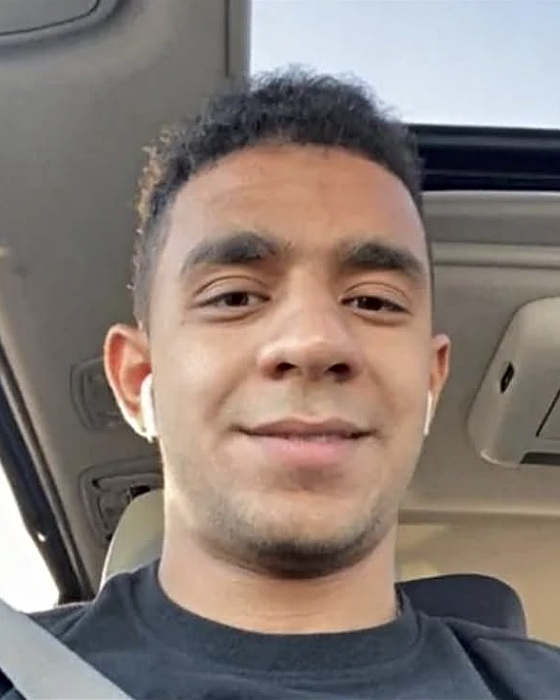
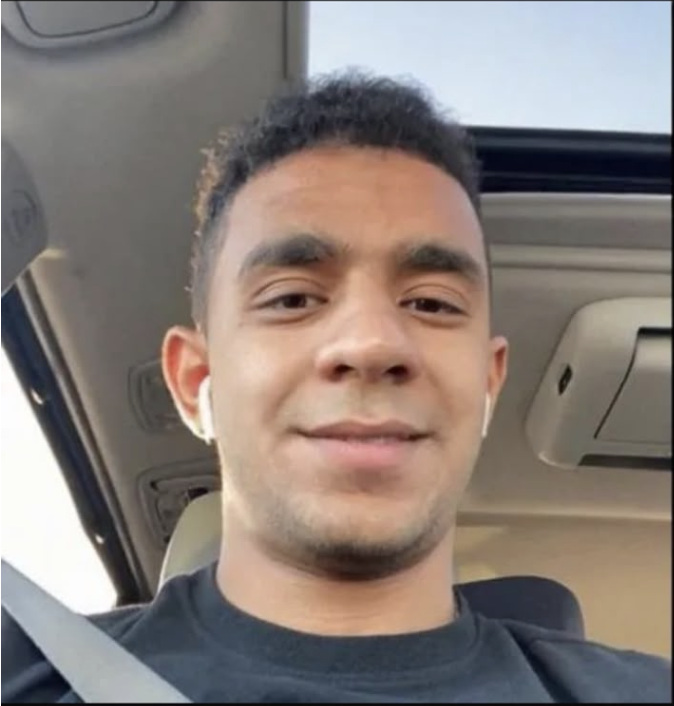
Use the wider portrait at its natural aspect ratio

diff --git a/teaching.html b/teaching.html
@@ -8,14 +8,14 @@
 <meta name="description" content="Amr Mohamed: Computer Science, University of Houston. Optimization, AI for optimization, and energy systems.">
 <link rel="preconnect" href="https://fonts.googleapis.com">
 <link href="https://fonts.googleapis.com/css2?family=Geist:wght@400;500;600&display=swap" rel="stylesheet">
-<link rel="stylesheet" href="style.css?v=9">
+<link rel="stylesheet" href="style.css?v=10">
 </head>
 <body class="dark">
 <div class="page">
 <aside class="side">
   <h1><a href="index.html">Amr Mohamed</a></h1>
   <p class="sub">Computer Science · University of Houston</p>
-  <img class="portrait" src="images/profile.jpg?v=c83af817" onerror="this.onerror=null;this.src='images/profile.svg'" alt="Portrait of Amr Mohamed">
+  <img class="portrait" src="images/profile.jpg?v=75b1ff2b" onerror="this.onerror=null;this.src='images/profile.svg'" alt="Portrait of Amr Mohamed">
   <ul>
     <li><span><svg viewBox="0 0 24 24"><path d="M12 2a7 7 0 0 0-7 7c0 5 7 13 7 13s7-8 7-13a7 7 0 0 0-7-7zm0 9.5A2.5 2.5 0 1 1 12 6.5a2.5 2.5 0 0 1 0 5z"/></svg>Houston, TX</span></li>
     <li><a href="mailto:mohamedwamr81@yahoo.com"><svg viewBox="0 0 24 24"><path d="M3 5h18v14H3zM4.5 6.5 12 12l7.5-5.5V8L12 13.5 4.5 8z"/></svg>Email</a></li>

diff --git a/blog.html b/blog.html
@@ -8,14 +8,14 @@
 <meta name="description" content="Amr Mohamed: Computer Science, University of Houston. Optimization, AI for optimization, and energy systems.">
 <link rel="preconnect" href="https://fonts.googleapis.com">
 <link href="https://fonts.googleapis.com/css2?family=Geist:wght@400;500;600&display=swap" rel="stylesheet">
-<link rel="stylesheet" href="style.css?v=9">
+<link rel="stylesheet" href="style.css?v=10">
 </head>
 <body>
 <div class="page">
 <aside class="side">
   <h1><a href="index.html">Amr Mohamed</a></h1>
   <p class="sub">Computer Science · University of Houston</p>
-  <img class="portrait" src="images/profile.jpg?v=c83af817" onerror="this.onerror=null;this.src='images/profile.svg'" alt="Portrait of Amr Mohamed">
+  <img class="portrait" src="images/profile.jpg?v=75b1ff2b" onerror="this.onerror=null;this.src='images/profile.svg'" alt="Portrait of Amr Mohamed">
   <ul>
     <li><span><svg viewBox="0 0 24 24"><path d="M12 2a7 7 0 0 0-7 7c0 5 7 13 7 13s7-8 7-13a7 7 0 0 0-7-7zm0 9.5A2.5 2.5 0 1 1 12 6.5a2.5 2.5 0 0 1 0 5z"/></svg>Houston, TX</span></li>
     <li><a href="mailto:mohamedwamr81@yahoo.com"><svg viewBox="0 0 24 24"><path d="M3 5h18v14H3zM4.5 6.5 12 12l7.5-5.5V8L12 13.5 4.5 8z"/></svg>Email</a></li>

diff --git a/index.html b/index.html
@@ -8,14 +8,14 @@
 <meta name="description" content="Amr Mohamed: Computer Science, University of Houston. Optimization, AI for optimization, and energy systems.">
 <link rel="preconnect" href="https://fonts.googleapis.com">
 <link href="https://fonts.googleapis.com/css2?family=Geist:wght@400;500;600&display=swap" rel="stylesheet">
-<link rel="stylesheet" href="style.css?v=9">
+<link rel="stylesheet" href="style.css?v=10">
 </head>
 <body>
 <div class="page">
 <aside class="side">
   <h1><a href="index.html">Amr Mohamed</a></h1>
   <p class="sub">Computer Science · University of Houston</p>
-  <img class="portrait" src="images/profile.jpg?v=c83af817" onerror="this.onerror=null;this.src='images/profile.svg'" alt="Portrait of Amr Mohamed">
+  <img class="portrait" src="images/profile.jpg?v=75b1ff2b" onerror="this.onerror=null;this.src='images/profile.svg'" alt="Portrait of Amr Mohamed">
   <ul>
     <li><span><svg viewBox="0 0 24 24"><path d="M12 2a7 7 0 0 0-7 7c0 5 7 13 7 13s7-8 7-13a7 7 0 0 0-7-7zm0 9.5A2.5 2.5 0 1 1 12 6.5a2.5 2.5 0 0 1 0 5z"/></svg>Houston, TX</span></li>
     <li><a href="mailto:mohamedwamr81@yahoo.com"><svg viewBox="0 0 24 24"><path d="M3 5h18v14H3zM4.5 6.5 12 12l7.5-5.5V8L12 13.5 4.5 8z"/></svg>Email</a></li>

diff --git a/quotes.html b/quotes.html
@@ -8,14 +8,14 @@
 <meta name="description" content="Amr Mohamed: Computer Science, University of Houston. Optimization, AI for optimization, and energy systems.">
 <link rel="preconnect" href="https://fonts.googleapis.com">
 <link href="https://fonts.googleapis.com/css2?family=Geist:wght@400;500;600&display=swap" rel="stylesheet">
-<link rel="stylesheet" href="style.css?v=9">
+<link rel="stylesheet" href="style.css?v=10">
 </head>
 <body>
 <div class="page">
 <aside class="side">
   <h1><a href="index.html">Amr Mohamed</a></h1>
   <p class="sub">Computer Science · University of Houston</p>
-  <img class="portrait" src="images/profile.jpg?v=c83af817" onerror="this.onerror=null;this.src='images/profile.svg'" alt="Portrait of Amr Mohamed">
+  <img class="portrait" src="images/profile.jpg?v=75b1ff2b" onerror="this.onerror=null;this.src='images/profile.svg'" alt="Portrait of Amr Mohamed">
   <ul>
     <li><span><svg viewBox="0 0 24 24"><path d="M12 2a7 7 0 0 0-7 7c0 5 7 13 7 13s7-8 7-13a7 7 0 0 0-7-7zm0 9.5A2.5 2.5 0 1 1 12 6.5a2.5 2.5 0 0 1 0 5z"/></svg>Houston, TX</span></li>
     <li><a href="mailto:mohamedwamr81@yahoo.com"><svg viewBox="0 0 24 24"><path d="M3 5h18v14H3zM4.5 6.5 12 12l7.5-5.5V8L12 13.5 4.5 8z"/></svg>Email</a></li>

diff --git a/style.css b/style.css
@@ -12,7 +12,7 @@ img,video{max-width:100%;display:block}
 .side h1{font-size:32px;white-space:nowrap;line-height:1.15;font-weight:600;color:var(--navy);margin:0;letter-spacing:-.02em}
 .side h1 a{text-decoration:none;color:inherit}
 .side .sub{color:var(--muted);font-size:13px;margin:6px 0 18px}
-.portrait{width:182px;height:228px;object-fit:cover;border-radius:2px;filter:grayscale(0%);transition:filter .5s ease}
+.portrait{width:182px;height:auto;border-radius:2px;filter:grayscale(0%);transition:filter .5s ease}
 @media (hover:hover){.portrait:hover{filter:grayscale(100%)}}
 .side ul{list-style:none;padding:0;margin:22px 0 0}
 .side li{margin:0 0 9px;font-size:14px}
@@ -64,7 +64,7 @@ footer{margin-top:72px;padding-top:16px;border-top:1px solid var(--line);color:v
   .page{grid-template-columns:1fr;gap:28px;padding-top:28px}
   .side{display:grid;grid-template-columns:120px 1fr;gap:4px 20px;align-items:start}
   .side h1,.side .sub{grid-column:1/-1}
-  .portrait{width:120px;height:150px}
+  .portrait{width:120px;height:auto}
   .side ul{margin:0}
   .entry{grid-template-columns:1fr;gap:18px}
   .lead{font-size:22px}
